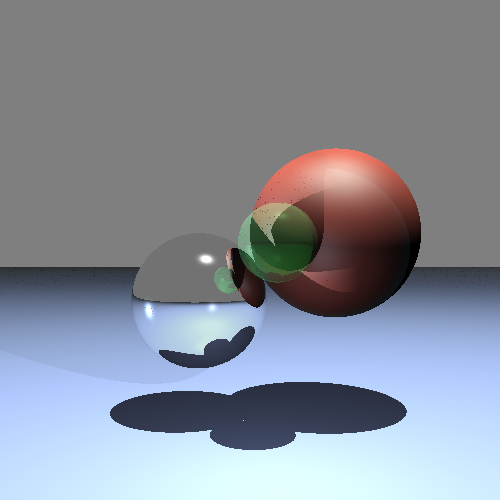
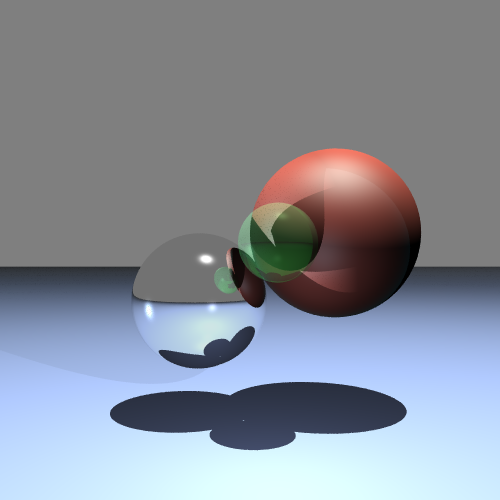
super_sampling complete :white_check_mark:

diff --git a/src/RayTracing/Camera.java b/src/RayTracing/Camera.java
@@ -1,6 +1,7 @@
 package RayTracing;
 
 import java.util.ArrayList;
+import java.util.Random;
 
 public class Camera {
 	
@@ -57,7 +58,7 @@ public class Camera {
 				"upvect=" + up_vector + ")";
 	}
 
-	public ArrayList<Ray> constructRaysThroughPixel(int i, int j) 
+	public ArrayList<Ray> constructRaysThroughPixel(int i, int j, int super_sampling_lvl) 
 	{
 		// http://web.cse.ohio-state.edu/~shen.94/681/Site/Slides_files/basic_algo.pdf
 		// slide 17:
@@ -80,14 +81,29 @@ public class Camera {
 		Vector P = L.add(u.timesScalar(
 				j * W / numOfCols)).add(
 						v.timesScalar(i * H / numOfRows));
-
-		//Basic sampling - ofsset the ray to the center of the pixel
-		P = P.add(u.timesScalar(0.5 * screen_width / numOfCols)).add(
-				v.timesScalar(0.5 * screen_height / numOfRows));
-
+		
 		//super sampling:
+		Random generator = new Random();
 		ArrayList<Ray> returnedRays = new ArrayList<>();
 		
+		double miniPixelGrid_U = W / (numOfCols * super_sampling_lvl);
+		double miniPixelGrid_V = H / (numOfRows * super_sampling_lvl);
+		
+		for (int ii = 0; ii < super_sampling_lvl; ii++)
+		{
+			for (int jj = 0; jj < super_sampling_lvl; jj++)
+			{
+				Vector miniP = P.add(u.timesScalar(jj*miniPixelGrid_U)).add(v.timesScalar(ii*miniPixelGrid_V)); //base miniP
+				
+				miniP = miniP.add(v.timesScalar(miniPixelGrid_V * generator.nextDouble())).add(
+						u.timesScalar(miniPixelGrid_U * generator.nextDouble())); //random inside slot
+				
+				Vector vOfRay = miniP.substract(position);
+				Ray ray = new Ray(this.position, vOfRay); //TODO: check maybe ray's origin is P.
+				returnedRays.add(ray);
+			}
+		}
+	
 		// TODO: complete super sampling here
 		/*
 		 * Currently only one ray through middle of pixel.
@@ -96,9 +112,6 @@ public class Camera {
 		 * + make multiple rays in regard to N.
 		 * + random point from each grid slot, excluding borders.
 		 */
-		Vector vOfRay = P.substract(position);
-		Ray ray = new Ray(this.position, vOfRay); //TODO: check maybe ray's origin is P.
-		returnedRays.add(ray);
 		return returnedRays;
 	}
 

diff --git a/src/RayTracing/WorkerThread.java b/src/RayTracing/WorkerThread.java
@@ -31,7 +31,7 @@ public class WorkerThread implements Runnable {
     {
     	//-- decide about view plane grid
     	//-- and make a ray
-    	ArrayList<Ray> rays = cam.constructRaysThroughPixel(i,j);
+    	ArrayList<Ray> rays = cam.constructRaysThroughPixel(i, j, set.getSuper_sampling_lvl());
     	
     	//-- ray trace
     	ArrayList<Color> colors = rayTrace(rays);

diff --git a/src/RayTracing/Set.java b/src/RayTracing/Set.java
@@ -391,6 +391,10 @@ public class Set {
 		all_primitives.addAll(triangles);
 	}
 
+	public int getSuper_sampling_lvl() {
+		return super_sampling_lvl;
+	}
+
 
 	
 	

diff --git a/src/RayTracing/Color.java b/src/RayTracing/Color.java
@@ -74,7 +74,7 @@ public class Color {
 		{
 			c = c.add(col);
 		}
-		c = c.scalarMultipy(1/len);
+		c = c.scalarMultipy(1.0/len);
 		return c;
 	}
 
